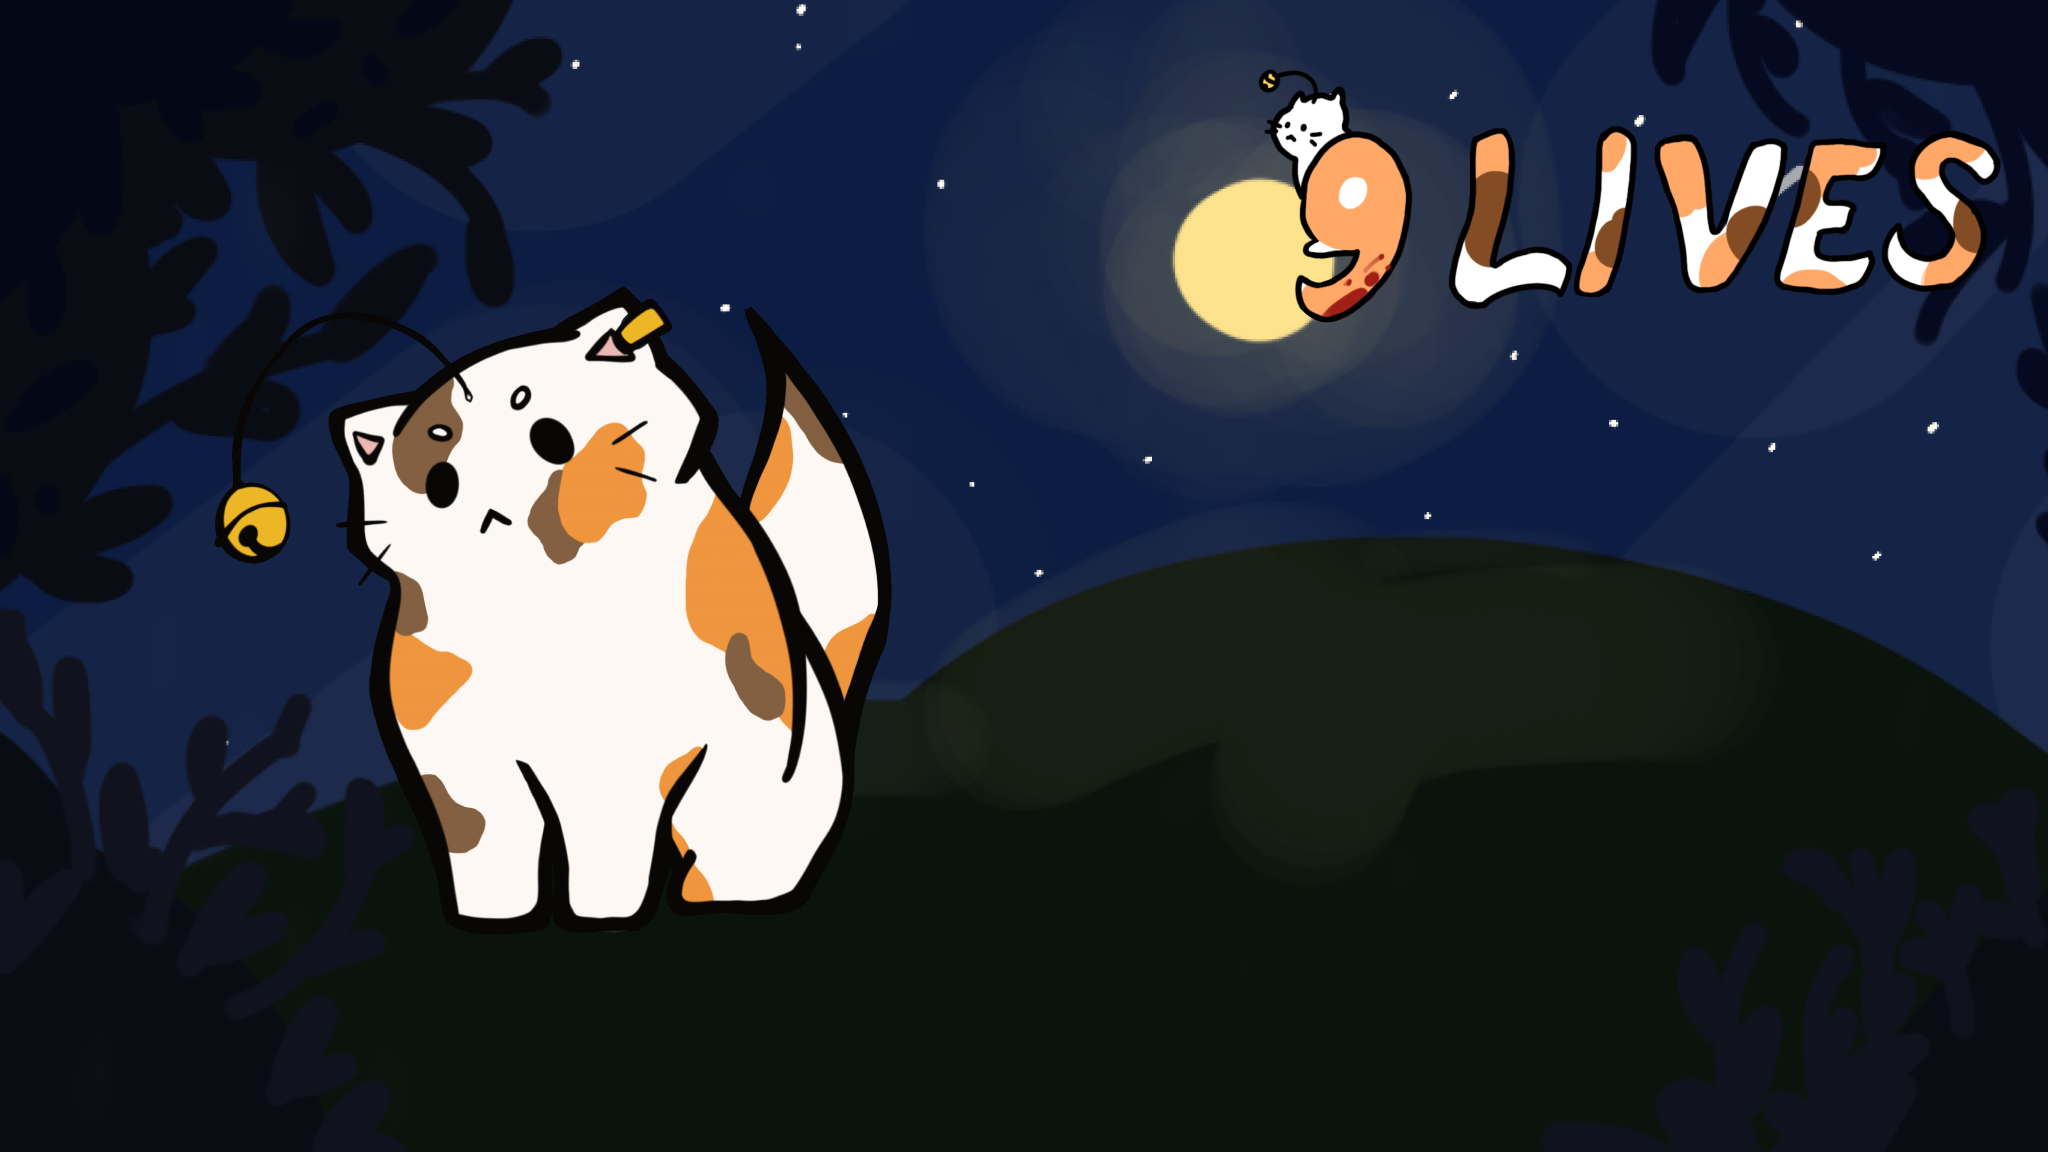
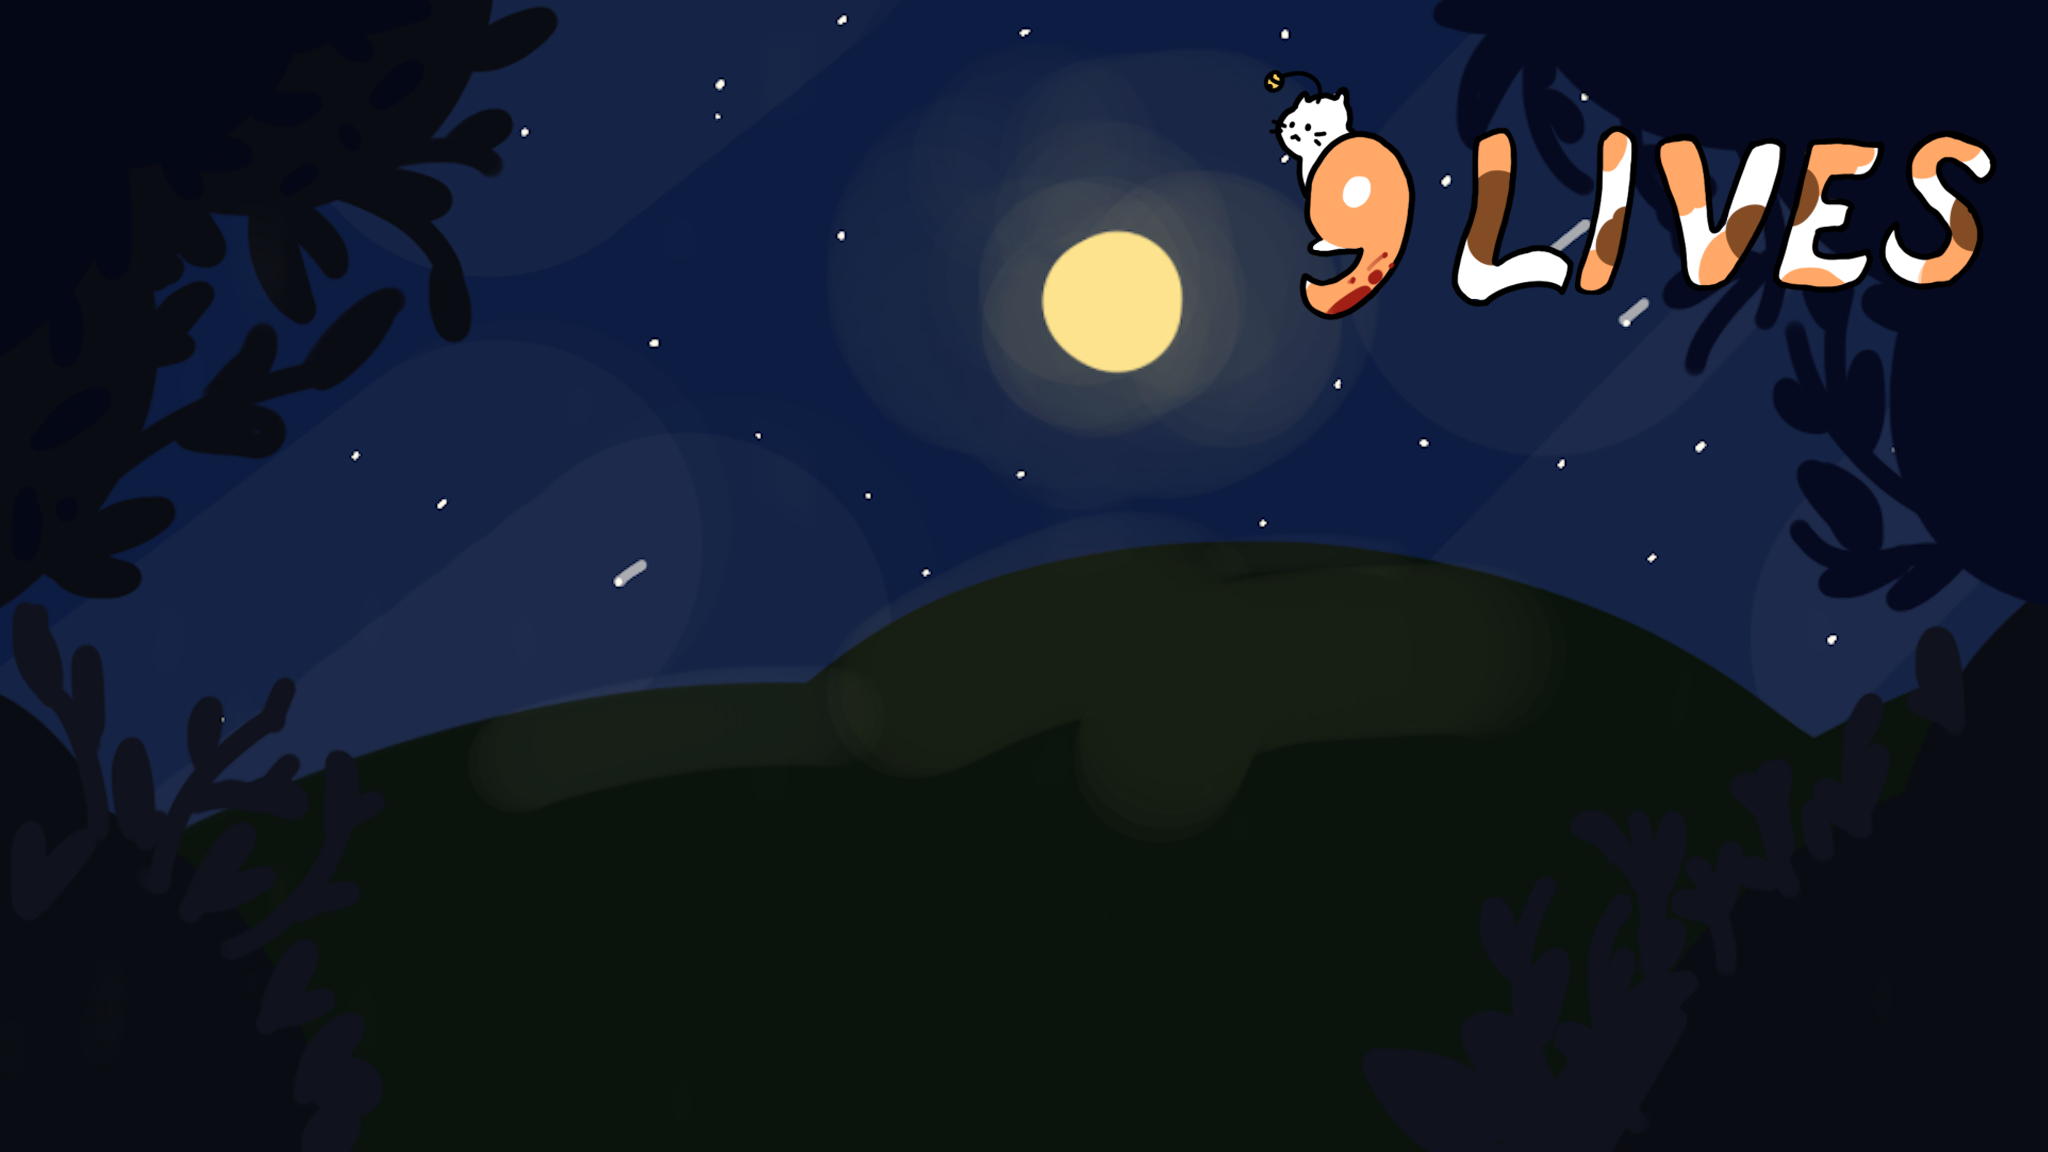
assets

Changed region(s): [[0.0, 0.0, 0.625, 0.8125], [0.4688, 0.0, 1.0, 0.6562]]

diff --git a/core/src/edu/cornell/gdiac/game/stage/MainMenuStage.java b/core/src/edu/cornell/gdiac/game/stage/MainMenuStage.java
@@ -1,5 +1,6 @@
 package edu.cornell.gdiac.game.stage;
 
+import com.badlogic.gdx.Gdx;
 import com.badlogic.gdx.Input;
 import com.badlogic.gdx.graphics.Color;
 import com.badlogic.gdx.graphics.Texture;
@@ -8,12 +9,15 @@ import com.badlogic.gdx.scenes.scene2d.InputEvent;
 import com.badlogic.gdx.scenes.scene2d.actions.Actions;
 import com.badlogic.gdx.scenes.scene2d.ui.Label;
 import com.badlogic.gdx.scenes.scene2d.ui.Table;
+import com.badlogic.gdx.graphics.g2d.Animation;
+import com.badlogic.gdx.graphics.g2d.TextureRegion;
 import com.badlogic.gdx.utils.Align;
 import com.badlogic.gdx.utils.Array;
 import edu.cornell.gdiac.assets.AssetDirectory;
 
 public class MainMenuStage extends StageWrapper{
     private Table table;
+    private Actor catActor;
     private Actor playButtonActor;
     private Actor levelSelectActor;
     private Actor settingsActor;
@@ -24,7 +28,10 @@ public class MainMenuStage extends StageWrapper{
 //    private Actor settingsCatpawActor;
 //    private Actor exitCatpawActor;
     private int playButtonState;
+    private Animation<TextureRegion> animation;
     private int levelSelectState;
+    private float time;
+
     private int settingsState;
     private int exitButtonState;
 //    private Array<Integer> stateArray;
@@ -53,12 +60,14 @@ public class MainMenuStage extends StageWrapper{
 //        stateArray.add(settingsState);
 //        stateArray.add(exitButtonState);
     }
-
     /**
      *
      */
     @Override
     public void createActors() {
+        animation = new Animation<>(0.15f, TextureRegion.split(internal.getEntry("main-menu-cat-anim", Texture.class),2048,2048)[0]);
+        animation.setPlayMode(Animation.PlayMode.LOOP);
+        time = 0.0f;
         Actor backgroundActor = addActor(internal.getEntry("background", Texture.class), 0,0);
         backgroundActor.setScale(0.5f);
 //        table = new Table();
@@ -77,7 +86,10 @@ public class MainMenuStage extends StageWrapper{
 //        table.add(settings);
 //        table.row();
 //        table.add(exitGame);
-//        addActor(internal.getEntry("main-menu-cat", Texture.class),-50,-65);
+        System.out.println(time);
+        catActor = addActor(animation.getKeyFrame(time).getTexture(),0,0);
+        catActor.setScale(0.1f);
+//        addActor(internal.getEntry("main-menu-cat", Texture.class),15,15);
         playButtonActor = addActor(internal.getEntry("play-game", Texture.class),buttonX+215, buttonY);
         playButtonActor.setScale(0.5f);
         levelSelectActor = addActor(internal.getEntry("level-select", Texture.class),buttonX+215-19, buttonY-50-10);
@@ -115,6 +127,14 @@ public class MainMenuStage extends StageWrapper{
         settingsActor.addListener(createHoverListener(settingsActor));
         exitButtonActor.addListener(createHoverListener(exitButtonActor));
     }
+
+//    @Override
+//    public void update(float delta) {
+//        super.update(delta);
+//        float d = Gdx.graphics.getDeltaTime();
+//        time += d;
+//        addActor(animation.getKeyFrame(time).getTexture(),15,15);
+//    }
 
     /**
      * @param event

diff --git a/core/src/edu/cornell/gdiac/game/stage/StageWrapper.java b/core/src/edu/cornell/gdiac/game/stage/StageWrapper.java
@@ -9,6 +9,7 @@ import com.badlogic.gdx.graphics.g2d.freetype.FreeTypeFontGenerator;
 import com.badlogic.gdx.scenes.scene2d.*;
 import com.badlogic.gdx.scenes.scene2d.ui.Image;
 import com.badlogic.gdx.scenes.scene2d.ui.Label;
+import com.badlogic.gdx.graphics.g2d.Animation;
 import com.badlogic.gdx.scenes.scene2d.ui.Slider;
 import com.badlogic.gdx.scenes.scene2d.ui.TextButton;
 import com.badlogic.gdx.scenes.scene2d.utils.TextureRegionDrawable;
@@ -30,6 +31,7 @@ public abstract class StageWrapper extends Stage {
     public int xHalf;
     public int yHalf;
     /** y-coordinate for top button */
+
     public int buttonY;
     static BitmapFont font;
     static BitmapFont controlFont;
@@ -77,7 +79,6 @@ public abstract class StageWrapper extends Stage {
             createActors();
         }
     }
-
     public void draw() {
         super.getViewport().apply();
 //        update();
@@ -90,7 +91,6 @@ public abstract class StageWrapper extends Stage {
         super.addActor(actor);
         return actor;
     }
-
     public Actor createActor(Texture texture, float x, float y) {
         Actor actor = new Image(texture);
         actor.setPosition(x, y);
